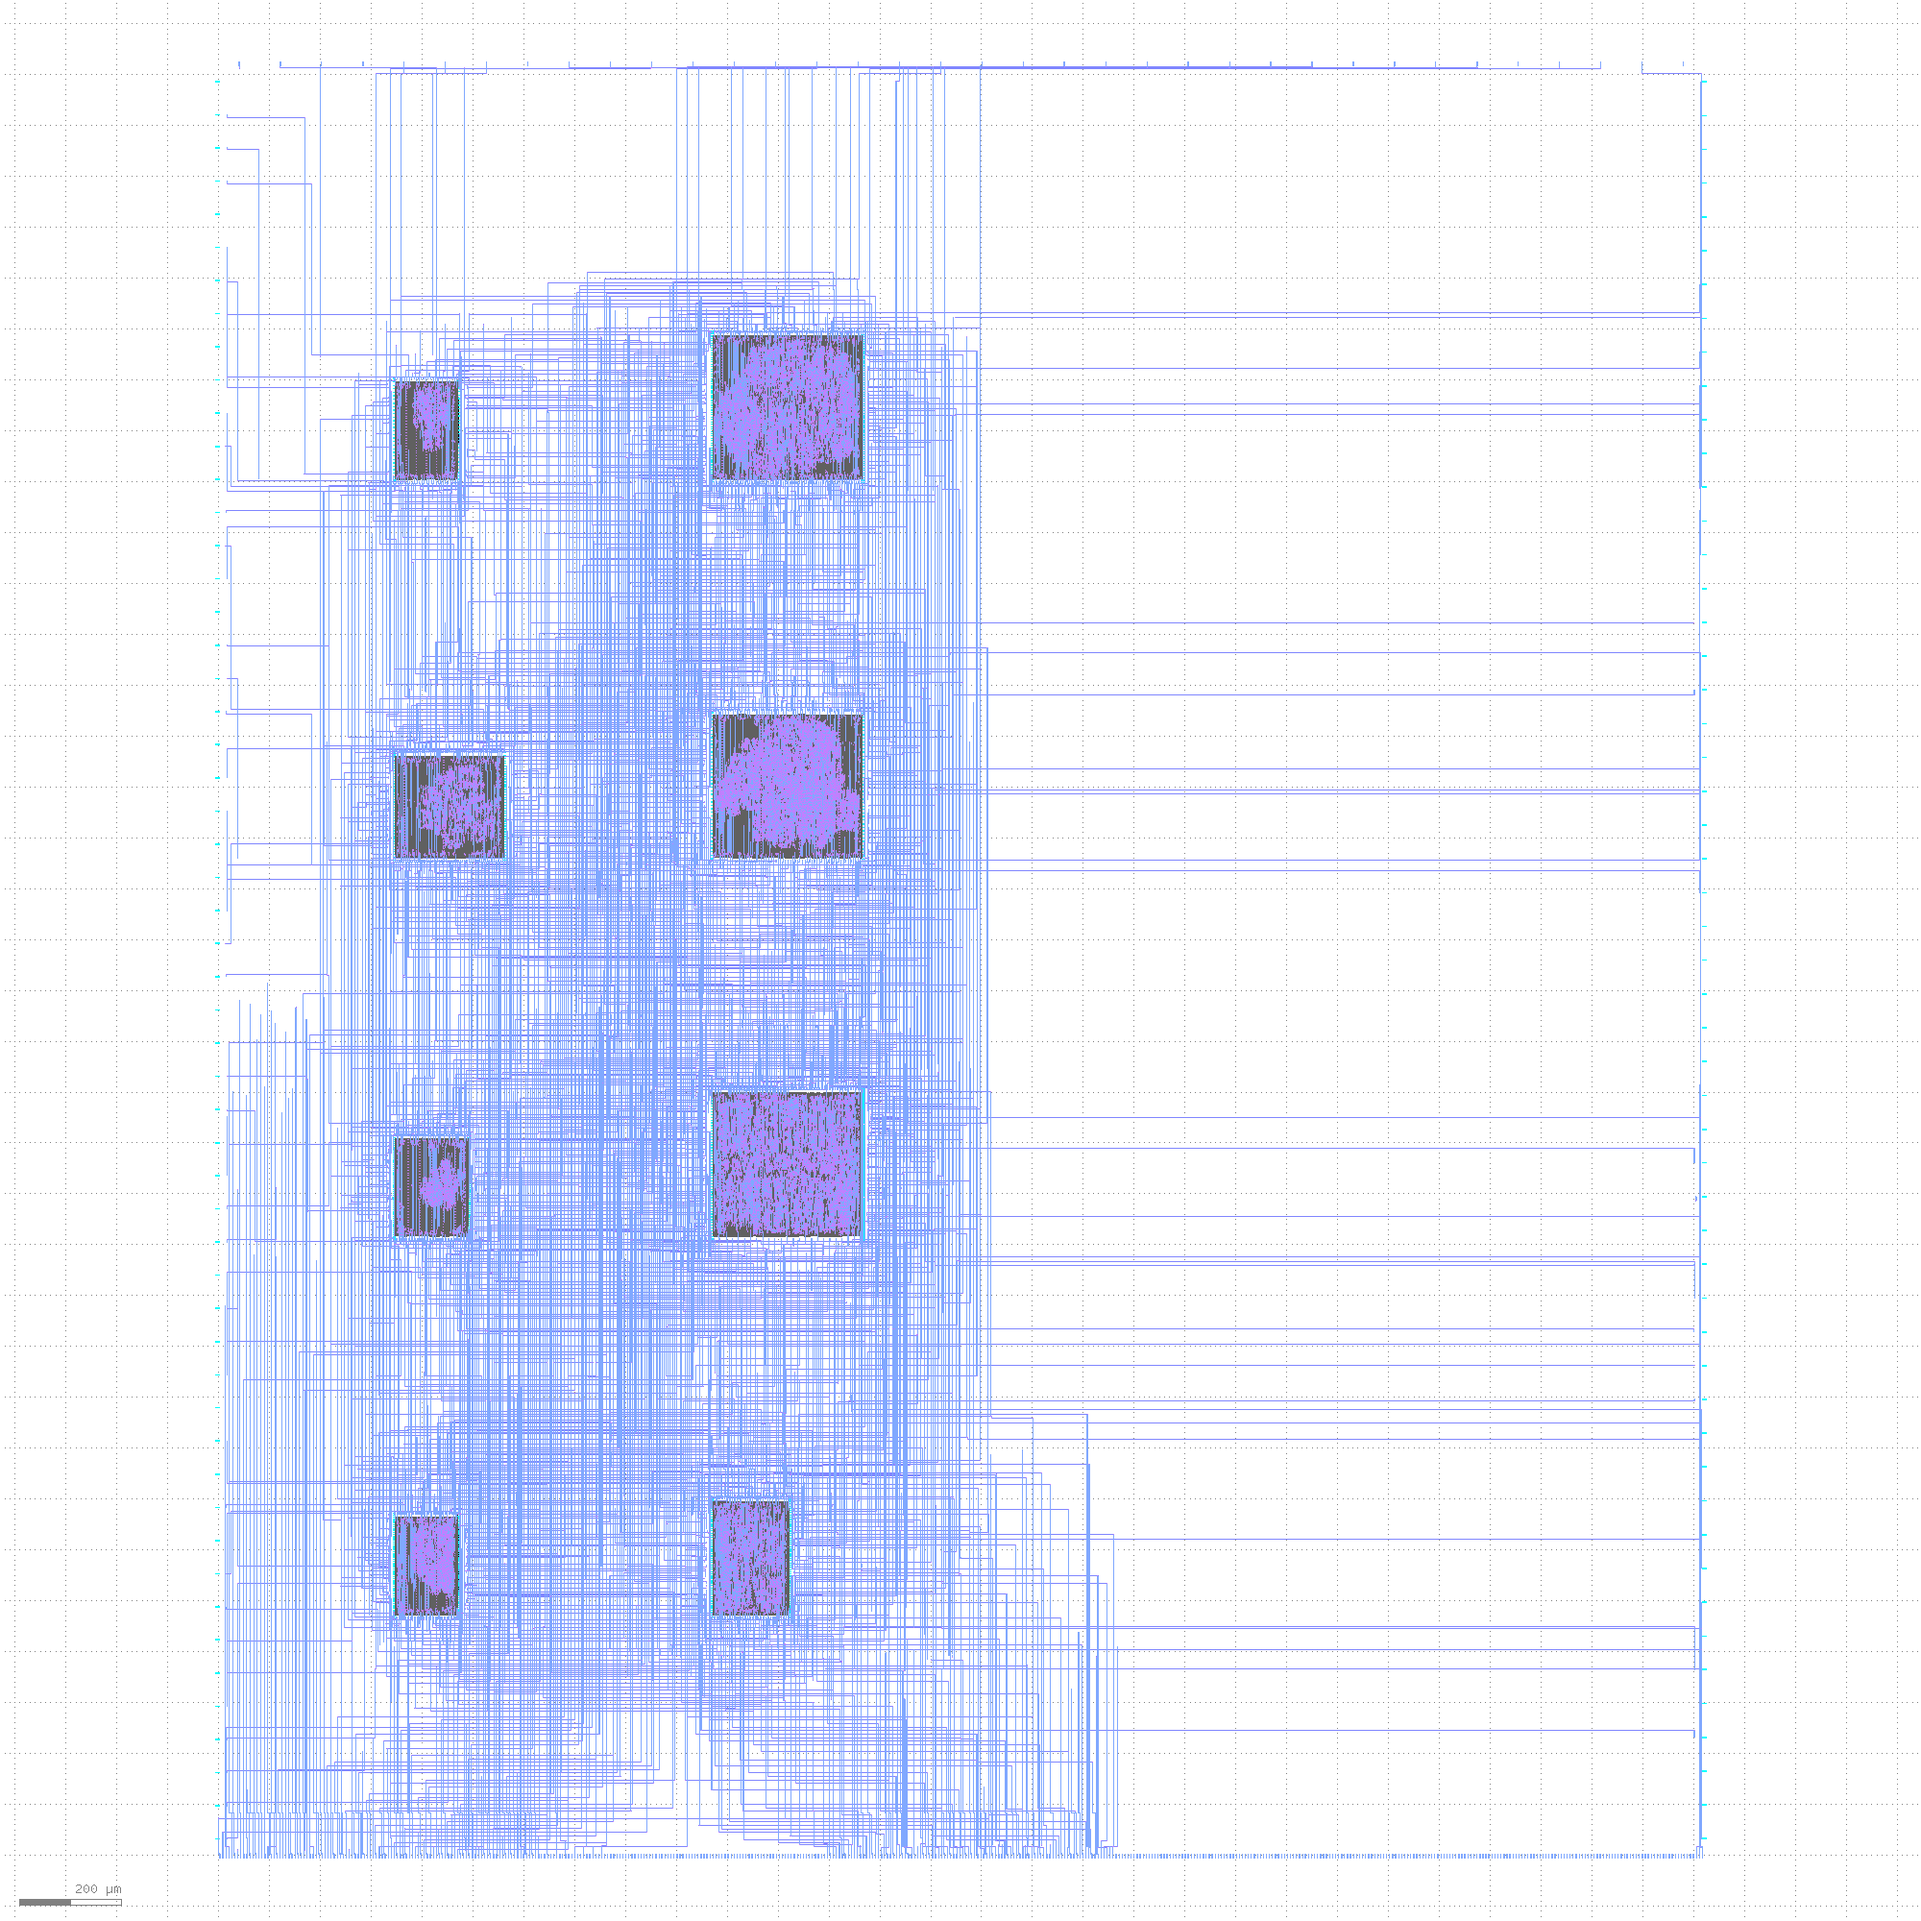
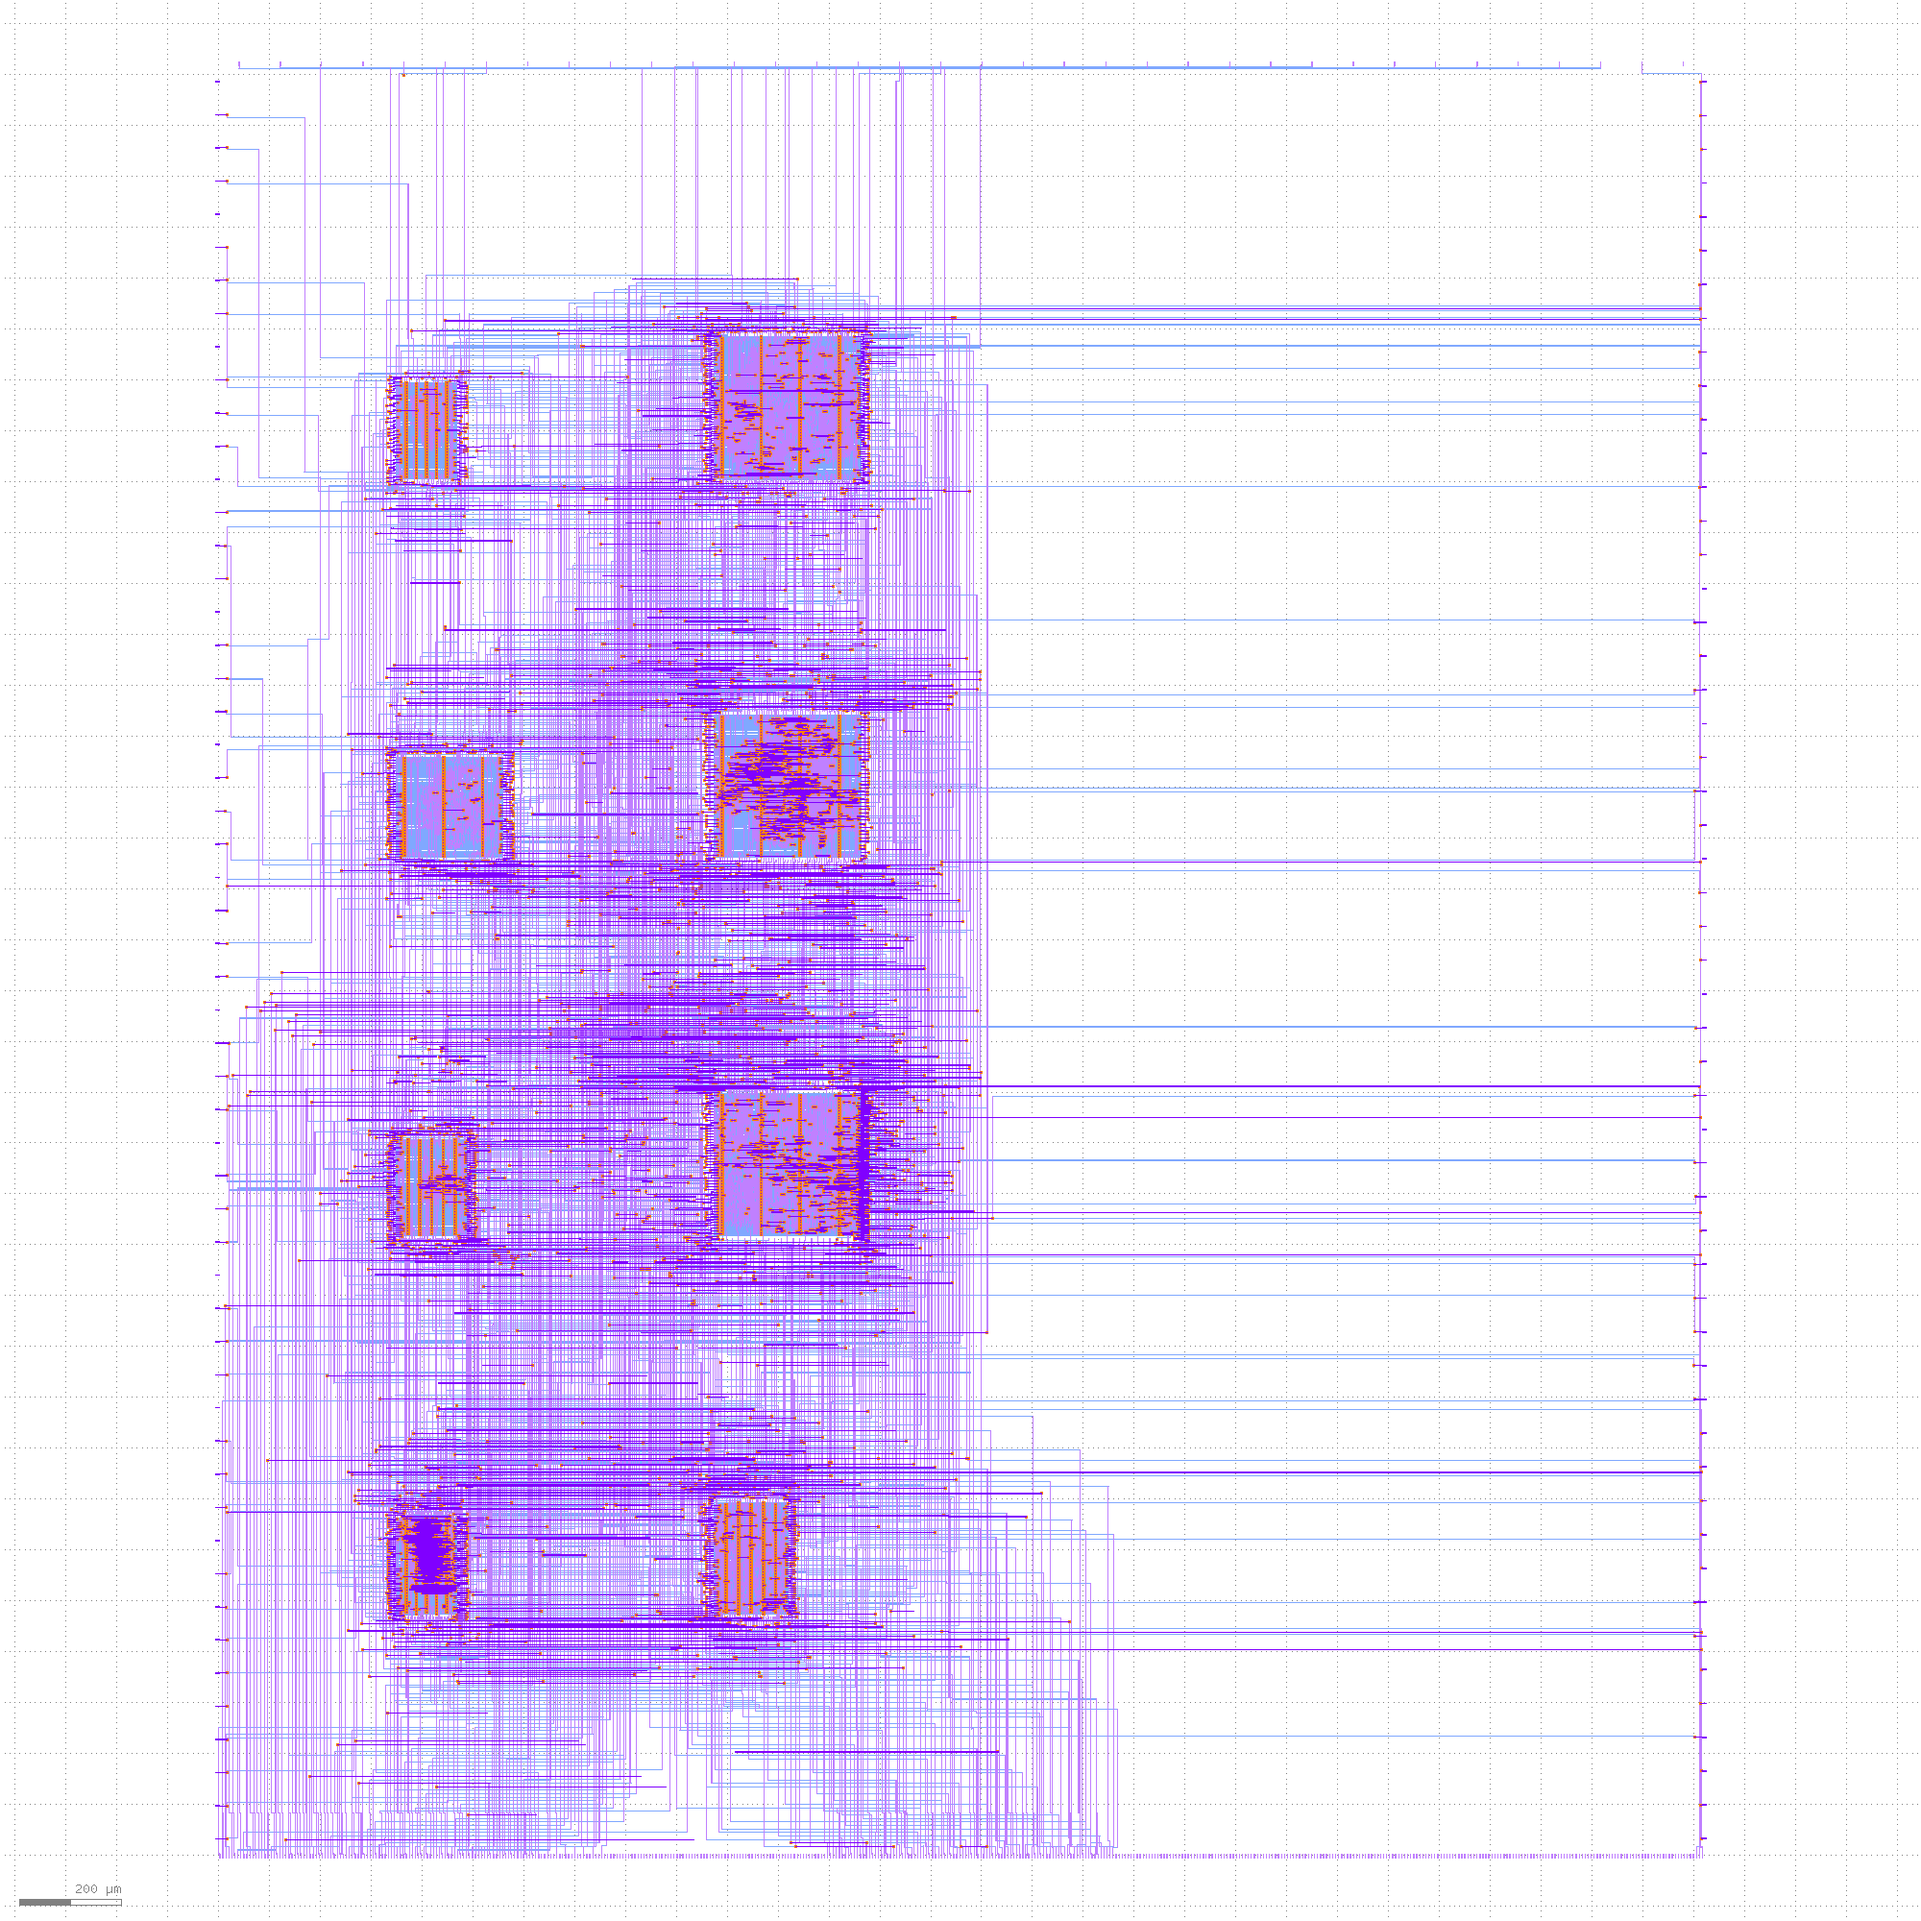
update docs

diff --git a/README.md b/README.md
@@ -6,7 +6,7 @@
 
 This index was made with [multi project tools](https://github.com/mattvenn/multi_project_tools)
 
-![multi macro](pics/multi_macro.png)
+![multi macro](pics/multi_macro_annotated.png)
 
 ## RGB Mixer
 
@@ -57,7 +57,7 @@ This index was made with [multi project tools](https://github.com/mattvenn/multi
 
 * Author: Jonathan 'theJPster' Pallant
 * Github: https://github.com/thejpster/zube_submission
-* commit: v1.4.0
+* commit: v1.4.1
 * Description: A generic Z80 bus peripheral
 
 ![Zube](pics/zube.png)
